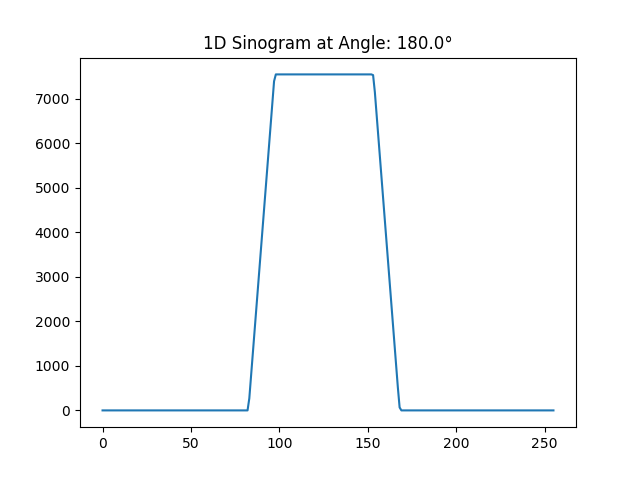
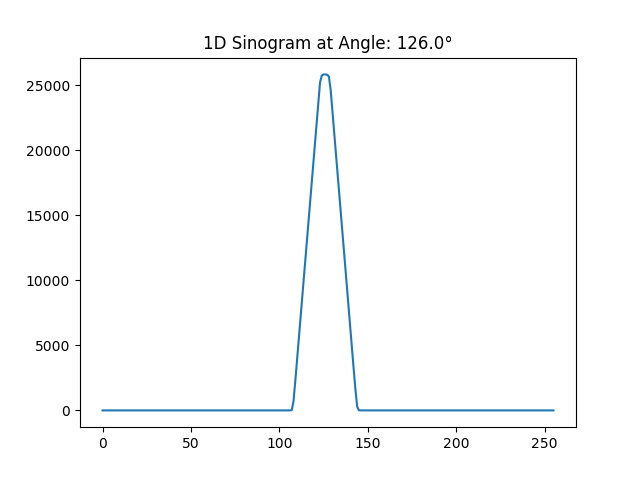
Changed the 1d radon title, changed some angle increment annotation. Made Scanner2dSKI only have available angles.

diff --git a/pythonProject/tkinterRadonProject2.py b/pythonProject/tkinterRadonProject2.py
@@ -50,7 +50,10 @@ class ProjectUI:
         quitButton = Button(toolbar, text="Quit", command=quit)
         quitButton.pack(side=RIGHT, padx=20, pady=20)
 
-        ctScanButton = Button(toolbar, text="CT Scan 2D", command=self.getCTScan)
+        ctScanSKIButton = Button(toolbar, text="CT Scan Scikit Full", command=self.getCTScanSKI)
+        ctScanSKIButton.pack(side=RIGHT, padx=20, pady=20)
+
+        ctScanButton = Button(toolbar, text="CT Scan Full", command=self.getCTScan)
         ctScanButton.pack(side=RIGHT, padx=20, pady=20)
 
         ctStepwiseScanButton = Button(toolbar, text="CT Scan Step", command=self.doStepwiseCTScan)
@@ -142,18 +145,47 @@ class ProjectUI:
     def getCTScan(self):
         """ Get CT scan using CTScan class"""
         if self.inputImage is not None:
+            numAngle2 = 181
+            if self.numAngles is not None:
+                numAngle2 = int(self.numAngles)
+
+            Scanner2 = Scanner2D(self.inputImage, numAngle2)
+            Scanner2.radon2D()
+            radon_transf = Scanner2.getRadonImage()
+            print(radon_transf.shape)
+
+            displayImage = self.makeDisplayImage(radon_transf, (640, 480))
+
+            self.makeLeftSideArrows(180)
+            self.makeRightSideArrows(180)
+
+            self.ctAcquisitionImageLabel.configure(image=displayImage)
+            self.ctAcquisitionImageLabel.image = displayImage
+            self.setStatus("Ran Full CT Scan")
+        else:
+            print("No input image to do 1D transform.")
+            print("No input image to transform.")
+
+    def getCTScanSKI(self):
+        """ Get CT scan using CTScan class"""
+        if self.inputImage is not None:
             numAngles2 = 181
             if self.numAngles is not None:
                 numAngles2 = int(self.numAngles)
 
+
+            #rint("Number of angles in getCTScanSKI: ", numAngles2)
             Scanner2 = Scanner2DSKI(self.inputImage, numAngles2)
             Scanner2.radon2D()
             Scanner2.saveRadon2DImage()
 
             radon_transf = cv2.imread("radon2D_Image.png")
             radon_transf = cv2.cvtColor(radon_transf, cv2.COLOR_RGB2GRAY)
-            print("Scanner2DSKI radon_transf shape: ", radon_transf.shape)
+            #print("Scanner2DSKI radon_transf shape: ", radon_transf.shape)
             displayImage = self.makeDisplayImage(radon_transf, (640, 480))
+
+            self.makeLeftSideArrows(180)
+            self.makeRightSideArrows(180)
 
             self.ctAcquisitionImageLabel.configure(image=displayImage)
             self.ctAcquisitionImageLabel.image = displayImage
@@ -168,6 +200,11 @@ class ProjectUI:
         numAngle2 = 10
         if self.numAngles is not None:
             numAngle2 = int(self.numAngles)
+        else:
+            angleIncrement = np.float(180) / np.float(numAngle2)
+            outputString = "Setting the angle increment to  " + str(angleIncrement) + "°"
+            self.angleIncrementLabel.config(text=outputString)
+            self.angleIncrementLabel.text = outputString
 
         if self.StepWiseScanner2D is None or self.changeOccurred:
             self.StepWiseScanner2D = Scanner2D(self.inputImage, numAngle2)
@@ -207,8 +244,8 @@ class ProjectUI:
         self.numAngles = self.numAnglesTextBox.get("1.0", "end-1c")
         outputString = ""
         if self.numAngles == "":
-            outputString = "No number entered for number of angles."
-            self.numAngles="1"
+            outputString = "Setting default angle increment: 18°"
+            self.numAngles="10"
         else:
             angleIncrement = np.float(180)/np.float(self.numAngles)
             outputString = "The angle increment will be " + str(angleIncrement) + "°"
@@ -233,7 +270,7 @@ class ProjectUI:
 
         self.ctScan1DLabel.configure(image=displayImage)
         self.ctScan1DLabel.image = displayImage
-        statusString = "Ran 1D CT Scan at angle  " + str(angle) + "°"
+        statusString = "Ran 1D CT Scan at angle  " + str(180 - angle) + "°"
         self.setStatus(statusString)
 
 

diff --git a/pythonProject/Scanner2DSKI.py b/pythonProject/Scanner2DSKI.py
@@ -22,7 +22,7 @@ class Scanner2DSKI:
         self.convertPassesToAngleArray()
 
         (N, M) = self.inputImage.shape
-        self.radonOutput = np.zeros((N, 181), np.float32)
+        self.radonOutput = np.zeros((N, self.numAngles), np.float32)
 
         self.fig, self.ax1 = plt.subplots()
 
@@ -32,17 +32,19 @@ class Scanner2DSKI:
         (N, M) = self.inputImage.shape
         self.cleanRadonMatrix()
 
+        angleIndex = 0
         for angle in self.anglesArray:
             theta = np.linspace(angle, angle, 1, endpoint=False)
             sinogram = radon(self.inputImage, theta=theta, circle=True)
             for pixel in range(N):
-                self.radonOutput[pixel][int(angle)] = sinogram[pixel]
+                self.radonOutput[pixel][angleIndex] = sinogram[pixel]
+            angleIndex += 1
 
 
     def cleanRadonMatrix(self):
         """clean radon matrix"""
         (N, M) = self.inputImage.shape
-        self.radonOutput = np.zeros((N, 181), np.float32)
+        self.radonOutput = np.zeros((N, self.numAngles), np.float32)
 
 
     def stepwiseRadon2D(self, angle):

diff --git a/pythonProject/Scanner.py b/pythonProject/Scanner.py
@@ -20,7 +20,7 @@ class Scanner:
         # plot one pass Radon
         #fig, ax1 = plt.subplots()
         values = CT.onePassRadon(angle)
-        titleString = "1D Sinogram at Angle: " + str(angle) + "°"
+        titleString = "1D Sinogram at Angle: " + str(180 - angle) + "°"
         self.ax1.set_title(titleString)
         plt.plot(values)
         self.fig.savefig('scanner_plot.png')
